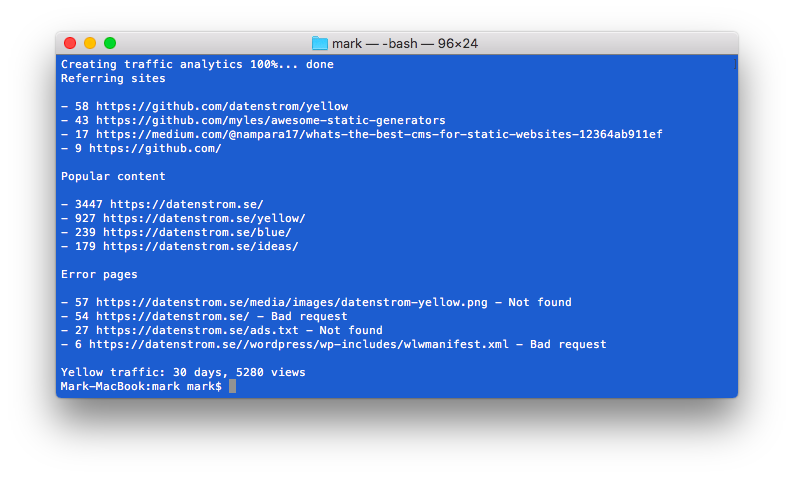
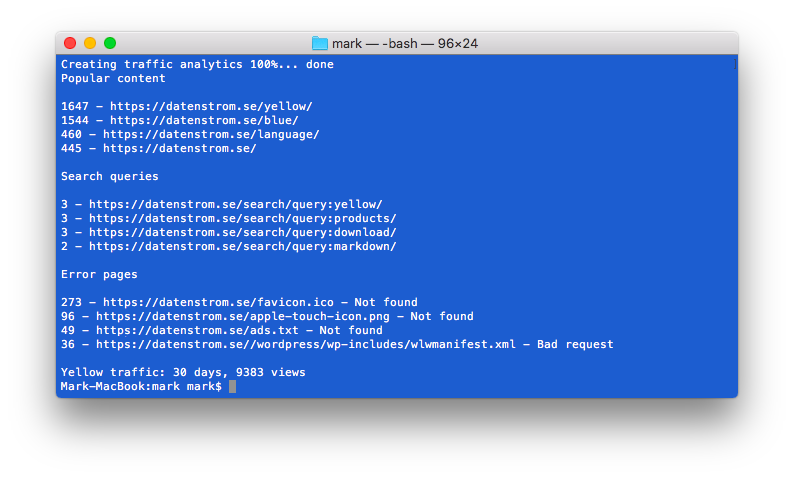
Updated traffic extension

diff --git a/source/traffic/traffic.php b/source/traffic/traffic.php
@@ -2,7 +2,7 @@
 // Traffic extension, https://github.com/datenstrom/yellow-extensions/tree/master/source/traffic
 
 class YellowTraffic {
-    const VERSION = "0.8.15";
+    const VERSION = "0.8.16";
     public $yellow;         // access to API
     public $days;           // number of days
     public $views;          // number of views
@@ -60,12 +60,12 @@ class YellowTraffic {
         $path = $this->yellow->system->get("trafficLogDirectory");
         $regex = "/^".basename($this->yellow->system->get("trafficAccessFile"))."$/";
         $fileNames = array_reverse($this->yellow->toolbox->getDirectoryEntries($path, $regex, true, false));
-        list($statusCode, $sites, $content, $files, $search, $errors) = $this->analyseRequests($days, $location, $fileNames);
+        list($statusCode, $content, $files, $search, $sites, $errors) = $this->analyseRequests($days, $location, $fileNames);
         if ($statusCode==200) {
-            $this->showRequests($sites, "Referring sites");
             $this->showRequests($content, "Popular content");
             $this->showRequests($files, "Popular files");
             $this->showRequests($search, "Search queries");
+            $this->showRequests($sites, "Referring sites");
             $this->showRequests($errors, "Error pages");
         }
         return $statusCode;
@@ -74,7 +74,7 @@ class YellowTraffic {
     // Analyse log file requests
     public function analyseRequests($days, $locationFilter, $fileNames) {
         $this->days = $this->views = 0;
-        $sites = $content = $files = $search = $errors = $clients = array();
+        $content = $files = $search = $sites = $errors = $clients = array();
         if (!empty($fileNames)) {
             $statusCode = 200;
             $timeStart = $timeFound = time();
@@ -106,11 +106,12 @@ class YellowTraffic {
                             $referer = $this->getReferer($referer, "$address$base/");
                             $url = $this->getUrl($scheme, $address, $base, $location);
                             $urlSearch = $this->getUrlSearch($scheme, $address, $base, $location, $locationSearch);
+                            $urlSite = $this->getUrlSite($referer);
                             if ($status<400) {
                                 $clientsRequestThrottle = substru($timestamp, 0, 17).$method.$location;
                                 if (isset($clients[$ip]) && $clients[$ip]==$clientsRequestThrottle) {
-                                    if (!isset($sites[$referer])) $sites[$referer] = 0;
-                                    --$sites[$referer];
+                                    if (!isset($sites[$urlSite])) $sites[$urlSite] = 0;
+                                    --$sites[$urlSite];
                                     continue;
                                 }
                                 $clients[$ip] = $clientsRequestThrottle;
@@ -126,8 +127,8 @@ class YellowTraffic {
                                 if (preg_match("#^$base/robots\.txt#", $location) && $locationFilter=="/") continue;
                                 if (!isset($content[$url])) $content[$url] = 0;
                                 ++$content[$url];
-                                if (!isset($sites[$referer])) $sites[$referer] = 0;
-                                ++$sites[$referer];
+                                if (!isset($sites[$urlSite])) $sites[$urlSite] = 0;
+                                ++$sites[$urlSite];
                                 if (!isset($search[$urlSearch])) $search[$urlSearch] = 0;
                                 ++$search[$urlSearch];
                                 ++$this->views;
@@ -156,7 +157,7 @@ class YellowTraffic {
             $path = $this->yellow->system->get("trafficLogDirectory");
             echo "ERROR reading log files: Can't find files in directory '$path'!\n";
         }
-        return array($statusCode, $sites, $content, $files, $search, $errors);
+        return array($statusCode, $content, $files, $search, $sites, $errors);
     }
     
     // Show top requests
@@ -169,7 +170,7 @@ class YellowTraffic {
         if (!empty($data)) {
             echo "$text\n\n";
             foreach ($data as $key=>$value) {
-                echo "- $value $key\n";
+                echo "$value - $key\n";
             }
             echo "\n";
         }
@@ -213,6 +214,12 @@ class YellowTraffic {
         $locationSearch = $base."(.*)".$locationSearch."query".$this->yellow->toolbox->getLocationArgumentsSeparator();
         $urlSearch = preg_match("#^$locationSearch([^/]+)/$#", $location) ? ("$scheme://$address".strtoloweru($location)) : "-";
         return str_replace(array("%", "\x1c", "\x1d", "\x1e", "\x20"), array("%25", "%1C", "%1D", "%1E", "%20"), $urlSearch);
+    }
+    
+    // Return referring site URL, if available
+    public function getUrlSite($referer) {
+        list($scheme, $address, $base) = $this->yellow->lookup->getUrlInformation($referer);
+        return ($scheme=="http" || $scheme=="https") ? "$scheme://$address" : "-";
     }
     
     // Return human readable status

diff --git a/source/traffic/README-de.md b/source/traffic/README-de.md
@@ -1,6 +1,6 @@
 <p align="right"><a href="README-de.md">Deutsch</a> &nbsp; <a href="README.md">English</a> &nbsp; <a href="README-sv.md">Svenska</a></p>
 
-# Traffic 0.8.15
+# Traffic 0.8.16
 
 Zugriffsanalysen aus Webserver-Logdateien erstellen.
 
@@ -8,7 +8,7 @@ Zugriffsanalysen aus Webserver-Logdateien erstellen.
 
 ## Wie man Zugriffsanalysen erstellt
 
-Die Zugriffsanalysen sind in der [Befehlszeile](https://github.com/datenstrom/yellow-extensions/tree/master/source/command/README-de.md) vorhanden. Es zeigt verweisende Webseiten, beliebte Inhalte, Dateien und Suchanfragen.  Öffne ein Terminalfenster. Gehe ins Installations-Verzeichnis, dort wo sich die Datei `yellow.php` befindet. Gib ein `php yellow.php traffic` gefolgt von optionalen Tagen und Ort.
+Die Zugriffsanalysen sind in der [Befehlszeile](https://github.com/datenstrom/yellow-extensions/tree/master/source/command/README-de.md) vorhanden. Es zeigt beliebte Inhalte, Dateien, Suchanfragen und Fehlerseiten. Öffne ein Terminalfenster. Gehe ins Installations-Verzeichnis, dort wo sich die Datei `yellow.php` befindet. Gib ein `php yellow.php traffic` gefolgt von optionalen Tagen und Ort.
 
 ## Beispiele
 

diff --git a/source/traffic/README-sv.md b/source/traffic/README-sv.md
@@ -1,6 +1,6 @@
 <p align="right"><a href="README-de.md">Deutsch</a> &nbsp; <a href="README.md">English</a> &nbsp; <a href="README-sv.md">Svenska</a></p>
 
-# Traffic 0.8.15
+# Traffic 0.8.16
 
 Skapa trafikanalys från webbserverns loggfiler.
 
@@ -8,7 +8,7 @@ Skapa trafikanalys från webbserverns loggfiler.
 
 ## Hur man skapar trafikanalys
 
-Trafikanalysen finns tillgänglig på [kommandoraden](https://github.com/datenstrom/yellow-extensions/tree/master/source/command/README-sv.md). Den visar hänvisande webbplatser, populärt innehåll, filer och sökfrågor. Öppna ett terminalfönster. Gå till installationsmappen där filen `yellow.php` finns. Skriv `php yellow.php traffic`, du kan lägga till valfria dagar och plats. 
+Trafikanalysen finns tillgänglig på [kommandoraden](https://github.com/datenstrom/yellow-extensions/tree/master/source/command/README-sv.md). Den visar populärt innehåll, filer, sökfrågor och felsidor. Öppna ett terminalfönster. Gå till installationsmappen där filen `yellow.php` finns. Skriv `php yellow.php traffic`, du kan lägga till valfria dagar och plats. 
 
 ## Exempel
 

diff --git a/source/traffic/README.md b/source/traffic/README.md
@@ -1,6 +1,6 @@
 <p align="right"><a href="README-de.md">Deutsch</a> &nbsp; <a href="README.md">English</a> &nbsp; <a href="README-sv.md">Svenska</a></p>
 
-# Traffic 0.8.15
+# Traffic 0.8.16
 
 Create traffic analytics from web server log files.
 
@@ -8,7 +8,7 @@ Create traffic analytics from web server log files.
 
 ## How to create traffic analytics
 
-The traffic analytics are available at the [command line](https://github.com/datenstrom/yellow-extensions/tree/master/source/command). It shows referring sites, popular content, files and search queries. Open a terminal window. Go to your installation folder, where the file `yellow.php` is. Type `php yellow.php traffic`, you can add optional days and location.
+The traffic analytics are available at the [command line](https://github.com/datenstrom/yellow-extensions/tree/master/source/command). It shows popular content, files, search queries and error pages. Open a terminal window. Go to your installation folder, where the file `yellow.php` is. Type `php yellow.php traffic`, you can add optional days and location.
 
 ## Examples
 
